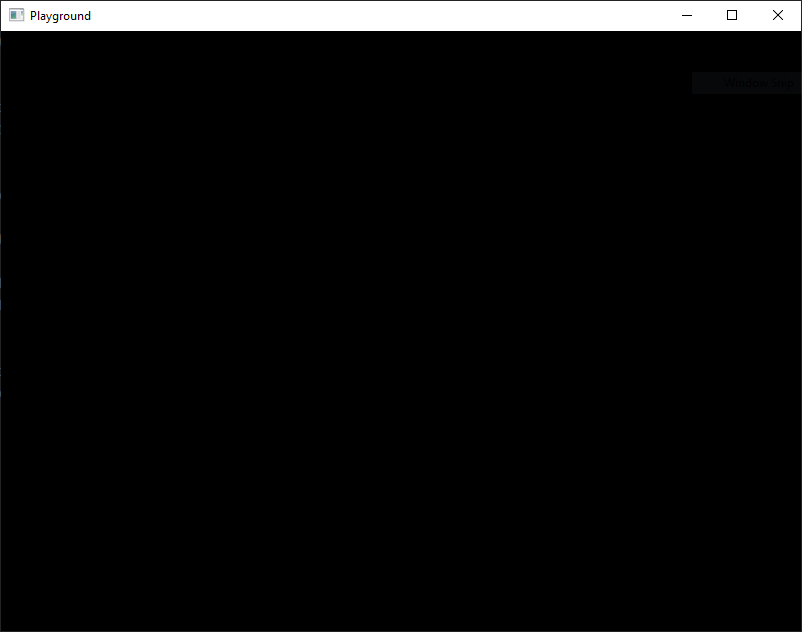
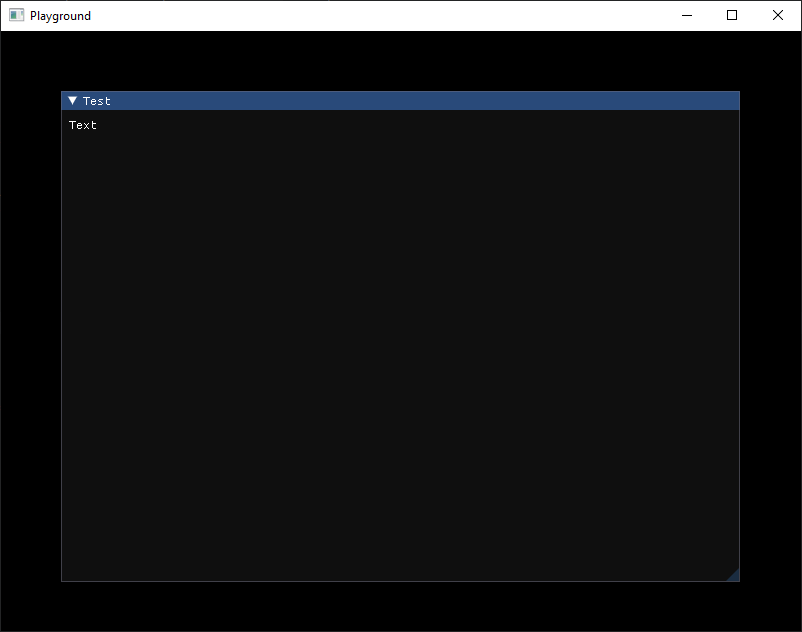
make use of imgui library

Changed region(s): [[0.0623, 0.1203, 0.9352, 0.1804], [0.904, 0.9019, 0.9352, 0.932]]

diff --git a/Code/main.cpp b/Code/main.cpp
@@ -1,3 +1,8 @@
+#include <imgui.h>
+
+#include <backends/imgui_impl_glfw.h>
+#include <backends/imgui_impl_opengl3.h>
+
 #include <GLFW/glfw3.h>
 
 int main()
@@ -16,8 +21,26 @@ int main()
 
     glfwMakeContextCurrent(window);
 
+    ImGui::CreateContext();
+    ImGui_ImplGlfw_InitForOpenGL(window, true);
+    ImGui_ImplOpenGL3_Init("#version 130");
+
     while (!glfwWindowShouldClose(window))
     {
+        ImGui_ImplOpenGL3_NewFrame();
+        ImGui_ImplGlfw_NewFrame();
+        ImGui::NewFrame();
+
+        ImGui::Begin("Test");
+        ImGui::Text("Text");
+        ImGui::End();
+
+        ImGui::Render();
+
+        //glClear(GL_COLOR_BUFFER_BIT);
+
+        ImGui_ImplOpenGL3_RenderDrawData(ImGui::GetDrawData());
+
         glfwSwapBuffers(window);
         glfwPollEvents();
     }
